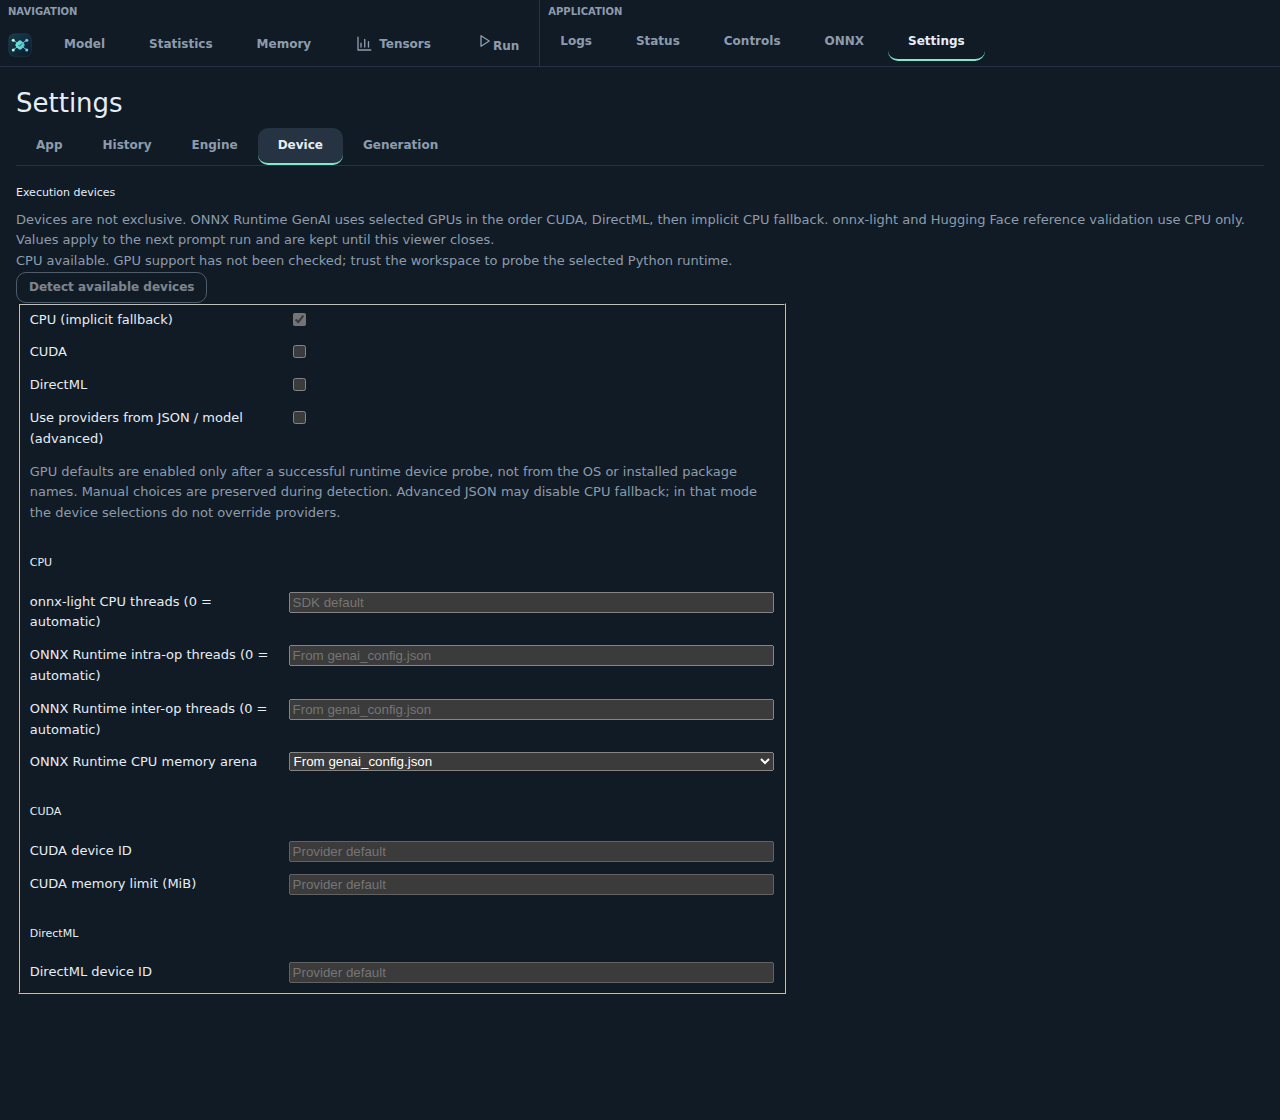
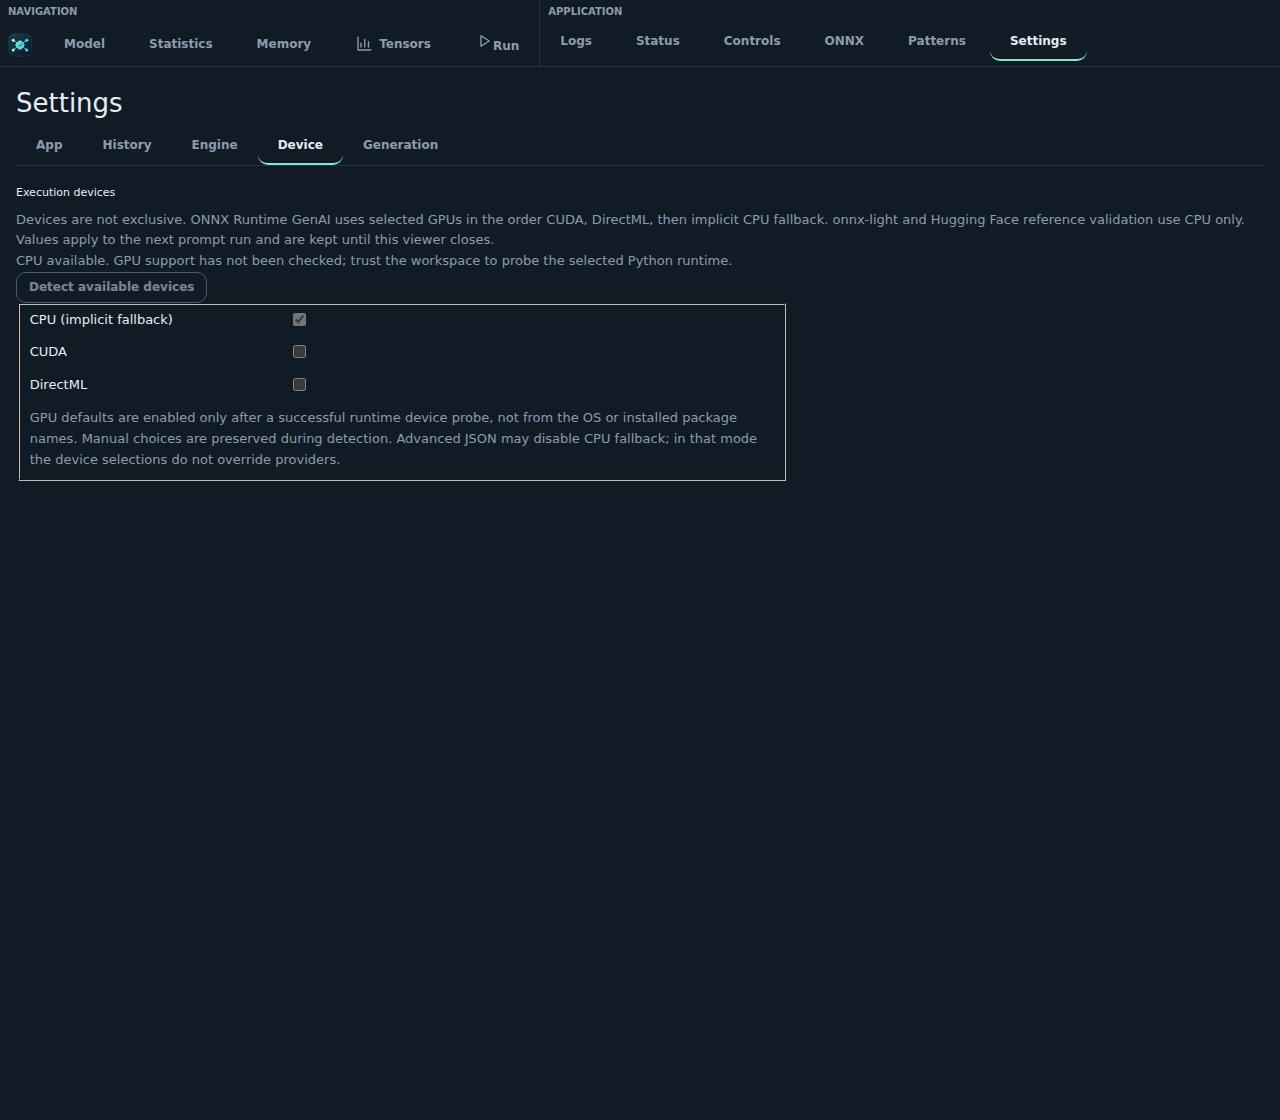
Move engine-specific device options into engine settings (#313)
Keep Device focused on device selection and detection. Move CPU thread counts, CPU arena and GenAI provider options to their owning engine panes; preserve session release, disabled-state handling and validation navigation. Update integration tests, documentation and real UI screenshots.

diff --git a/src/webview.ts b/src/webview.ts
@@ -711,6 +711,7 @@ export function webviewHtml(
           <div id="prompt-settings-light" class="prompt-settings-grid">
             <h3>onnx-light (CPU)</h3>
             <p>CPU kernels only. Automatic graph optimization is not exposed by Generate; use Optimize separately. The SDK recreates internal generation sessions, but reuses the loaded model, context and supported static preparations.</p>
+            <label><span>CPU threads (0 = automatic)</span><input data-setting="threads" type="number" min="0" max="4096" placeholder="SDK default"></label>
             <h3>Memory and diagnostics</h3>
             <label>Persistent tensor initial capacity (tokens)<input data-setting="initialCapacity" type="number" min="0" max="1048576" placeholder="SDK default (32)"></label>
             <label>Log verbosity<input data-setting="verbose" type="number" min="0" max="10" placeholder="SDK default (0)"></label>
@@ -719,7 +720,16 @@ export function webviewHtml(
           <div id="prompt-settings-genai" class="prompt-settings-grid" hidden>
             <h3>ONNX Runtime GenAI</h3>
             <p>Leave a field blank or select "-" to use genai_config.json. If an option is absent from that file, the engine uses its built-in default. Enter a value or select another option to override it.</p>
+            <h3>CPU</h3>
+            <label><span>Intra-op threads (0 = automatic)</span><input data-setting="intraOpThreads" type="number" min="0" max="4096" placeholder="-"><small class="prompt-option-help">Set the thread count used within an operator.</small></label>
+            <label><span>Inter-op threads (0 = automatic)</span><input data-setting="interOpThreads" type="number" min="0" max="4096" placeholder="-"><small class="prompt-option-help">Set the thread count used to execute independent graph nodes in parallel execution mode.</small></label>
+            <label><span>CPU memory arena</span><select data-setting="cpuArena" data-boolean><option value="">-</option><option value="true">Enabled</option><option value="false">Disabled</option></select><small class="prompt-option-help">Reuse CPU allocations through the runtime memory arena.</small></label>
             <label><span>Parallel graph execution</span><select data-setting="parallelExecution" data-boolean><option value="">-</option><option value="true">Parallel</option><option value="false">Sequential</option></select><small class="prompt-option-help">Execute independent graph nodes concurrently rather than sequentially. This is not a weight-loading thread count.</small></label>
+            <h3>Execution providers</h3>
+            <label class="prompt-checkbox"><span>Use providers from genai_config.json</span><input id="settings-device-model" type="checkbox"><small class="prompt-option-help">Keep the exported provider configuration instead of the selections on Settings / Device.</small></label>
+            <label><span>CUDA device ID</span><input data-setting="cudaDeviceId" data-device="cuda" type="number" min="0" max="65535" placeholder="-" disabled><small class="prompt-option-help">Choose the CUDA device. Requires CUDA selected on Settings / Device and exported providers disabled. Blank preserves the provider default.</small></label>
+            <label><span>CUDA memory limit (MiB)</span><input data-setting="gpuMemoryMiB" data-device="cuda" type="number" min="1" max="1048576" placeholder="-" disabled><small class="prompt-option-help">Limit CUDA provider memory. Requires CUDA selected on Settings / Device and exported providers disabled. Blank preserves the provider default.</small></label>
+            <label><span>DirectML device ID</span><input data-setting="dmlDeviceId" data-device="dml" type="number" min="0" max="65535" placeholder="-" disabled><small class="prompt-option-help">Choose the DirectML device. Requires DirectML selected on Settings / Device and exported providers disabled. Blank preserves the provider default.</small></label>
             <h3>Initialization</h3>
             <p>GenAI exposes session initialization/prepacking controls, not a separate parallel weight-reader thread count. Graph execution mode is not a parallel-loading setting.</p>
             <label><span>Weight prepacking during initialization</span><select data-setting="prepacking" data-boolean><option value="">-</option><option value="true">Enabled</option><option value="false">Disabled</option></select><small class="prompt-option-help">Prepare constant weights for optimized kernels while loading. Disabling can reduce preparation costs but slow inference.</small></label>
@@ -925,18 +935,7 @@ export function webviewHtml(
           <label class="prompt-checkbox"><span>CPU (implicit fallback)</span><input id="settings-device-cpu" type="checkbox" checked disabled></label>
           <label class="prompt-checkbox"><span>CUDA</span><input id="settings-device-cuda" data-provider="cuda" type="checkbox"></label>
           <label class="prompt-checkbox"><span>DirectML</span><input id="settings-device-dml" data-provider="dml" type="checkbox"></label>
-          <label class="prompt-checkbox"><span>Use providers from genai_config.json</span><input id="settings-device-model" type="checkbox"></label>
           <p>GPU defaults are enabled only after a successful runtime device probe, not from the OS or installed package names. Manual choices are preserved during detection. Advanced JSON may disable CPU fallback; in that mode the device selections do not override providers.</p>
-          <h3>CPU</h3>
-          <label>onnx-light CPU threads (0 = automatic)<input data-setting="threads" data-engine="onnx-light" type="number" min="0" max="4096" placeholder="SDK default"></label>
-          <label>ONNX Runtime intra-op threads (0 = automatic)<input data-setting="intraOpThreads" data-engine="onnxruntime-genai" type="number" min="0" max="4096" placeholder="-"></label>
-          <label>ONNX Runtime inter-op threads (0 = automatic)<input data-setting="interOpThreads" data-engine="onnxruntime-genai" type="number" min="0" max="4096" placeholder="-"></label>
-          <label>ONNX Runtime CPU memory arena<select data-setting="cpuArena" data-engine="onnxruntime-genai" data-boolean><option value="">-</option><option value="true">Enabled</option><option value="false">Disabled</option></select></label>
-          <h3>CUDA</h3>
-          <label>CUDA device ID<input data-setting="cudaDeviceId" data-engine="onnxruntime-genai" data-device="cuda" type="number" min="0" max="65535" placeholder="Provider default" disabled></label>
-          <label>CUDA memory limit (MiB)<input data-setting="gpuMemoryMiB" data-engine="onnxruntime-genai" data-device="cuda" type="number" min="1" max="1048576" placeholder="Provider default" disabled></label>
-          <h3>DirectML</h3>
-          <label>DirectML device ID<input data-setting="dmlDeviceId" data-engine="onnxruntime-genai" data-device="dml" type="number" min="0" max="65535" placeholder="Provider default" disabled></label>
         </fieldset>
       </section>
     </section>

diff --git a/media/prompt-panel.js b/media/prompt-panel.js
@@ -80,12 +80,18 @@ function createPromptPanel({ byId, postMessage }) {
   byId("prompt-keep-loaded").addEventListener("change", () => {
     if (!byId("prompt-keep-loaded").checked) release();
   });
-  sessionFields.addEventListener("change", release);
-  deviceFields.addEventListener("change", () => {
-    for (const field of deviceFields.querySelectorAll("[data-device]"))
+  const updateDeviceFields = () => {
+    for (const field of sessionFields.querySelectorAll("[data-device]"))
       field.disabled =
         byId("settings-device-model").checked ||
         !byId(`settings-device-${field.dataset.device}`).checked;
+  };
+  sessionFields.addEventListener("change", () => {
+    updateDeviceFields();
+    release();
+  });
+  deviceFields.addEventListener("change", () => {
+    updateDeviceFields();
     if (busy) pendingDeviceRelease = true;
     else if (available) release();
   });
@@ -99,12 +105,9 @@ function createPromptPanel({ byId, postMessage }) {
     const settings = {};
     const sessionOptions = {};
     let lastSessionOption;
-    for (const field of [
-      ...pane.querySelectorAll(
-        "[data-setting], [data-config], [data-session-option]",
-      ),
-      ...deviceFields.querySelectorAll(`[data-engine="${engine}"]`),
-    ]) {
+    for (const field of pane.querySelectorAll(
+      "[data-setting], [data-config], [data-session-option]",
+    )) {
       if (field.dataset.config || field.dataset.sessionOption) {
         field.setCustomValidity("");
         if (field.value.includes("\0"))
@@ -122,10 +125,7 @@ function createPromptPanel({ byId, postMessage }) {
       )
         continue;
       if (!field.checkValidity()) {
-        if (deviceFields.contains(field)) {
-          byId("settings-tab").click();
-          byId("settings-device-tab").click();
-        } else byId("prompt-settings-open").click();
+        byId("prompt-settings-open").click();
         field.reportValidity();
         return;
       }

diff --git a/docs/features.rst b/docs/features.rst
@@ -661,13 +661,14 @@ Save and conversion suggestions. Clearing history never deletes files.
 Open **Settings → Device** to select devices independently; CPU and GPU selections
 can coexist. Supported devices are selected by default after capability detection.
 CPU fallback is always enabled; GPU selections use CUDA then DirectML priority.
-CPU thread counts, the CPU memory arena and GPU limits are separate from engine
-options. Detection requires workspace trust and the configured Python runtime;
+Detection requires workspace trust and the configured Python runtime;
 it does not overwrite manual selections. onnx-light and Hugging Face validation
 remain CPU-only.
 Open **Settings → Engine** for **onnxruntime** and **onnx-light**
-subtabs. ONNX Runtime GenAI and onnx-light share the session controls used by
-Prompt; changes apply to the next run and remain in this viewer panel, without
+subtabs. CPU thread counts belong to their engine; the CPU memory arena, exported
+provider configuration, GPU device IDs and memory limits belong to onnxruntime.
+These pages share the session controls used by Prompt;
+changes apply to the next run and remain in this viewer panel, without
 changing the selected execution engine. Reference selection and validation remain
 on Prompt.
 Open **Settings → Generation** for temperature and maximum new tokens, shared
@@ -688,13 +689,13 @@ their tab buttons.
    Manage remembered suggestions separately in History.
 
 .. figure:: _static/feature-settings-engine.png
-   :alt: Settings Engine category with onnxruntime and onnx-light subtabs and editable GenAI session options.
+   :alt: Settings Engine category with onnxruntime CPU thread counts, memory arena and GPU provider options.
    :width: 100%
 
    Browse engine options independently of the engine selected for Prompt.
 
 .. figure:: _static/feature-settings-device.png
-   :alt: Settings Device category with independent CPU, CUDA and DirectML selections and GPU limits.
+   :alt: Settings Device category with independent CPU, CUDA and DirectML selections and device detection.
    :width: 100%
 
    Select devices separately from engine session options.
